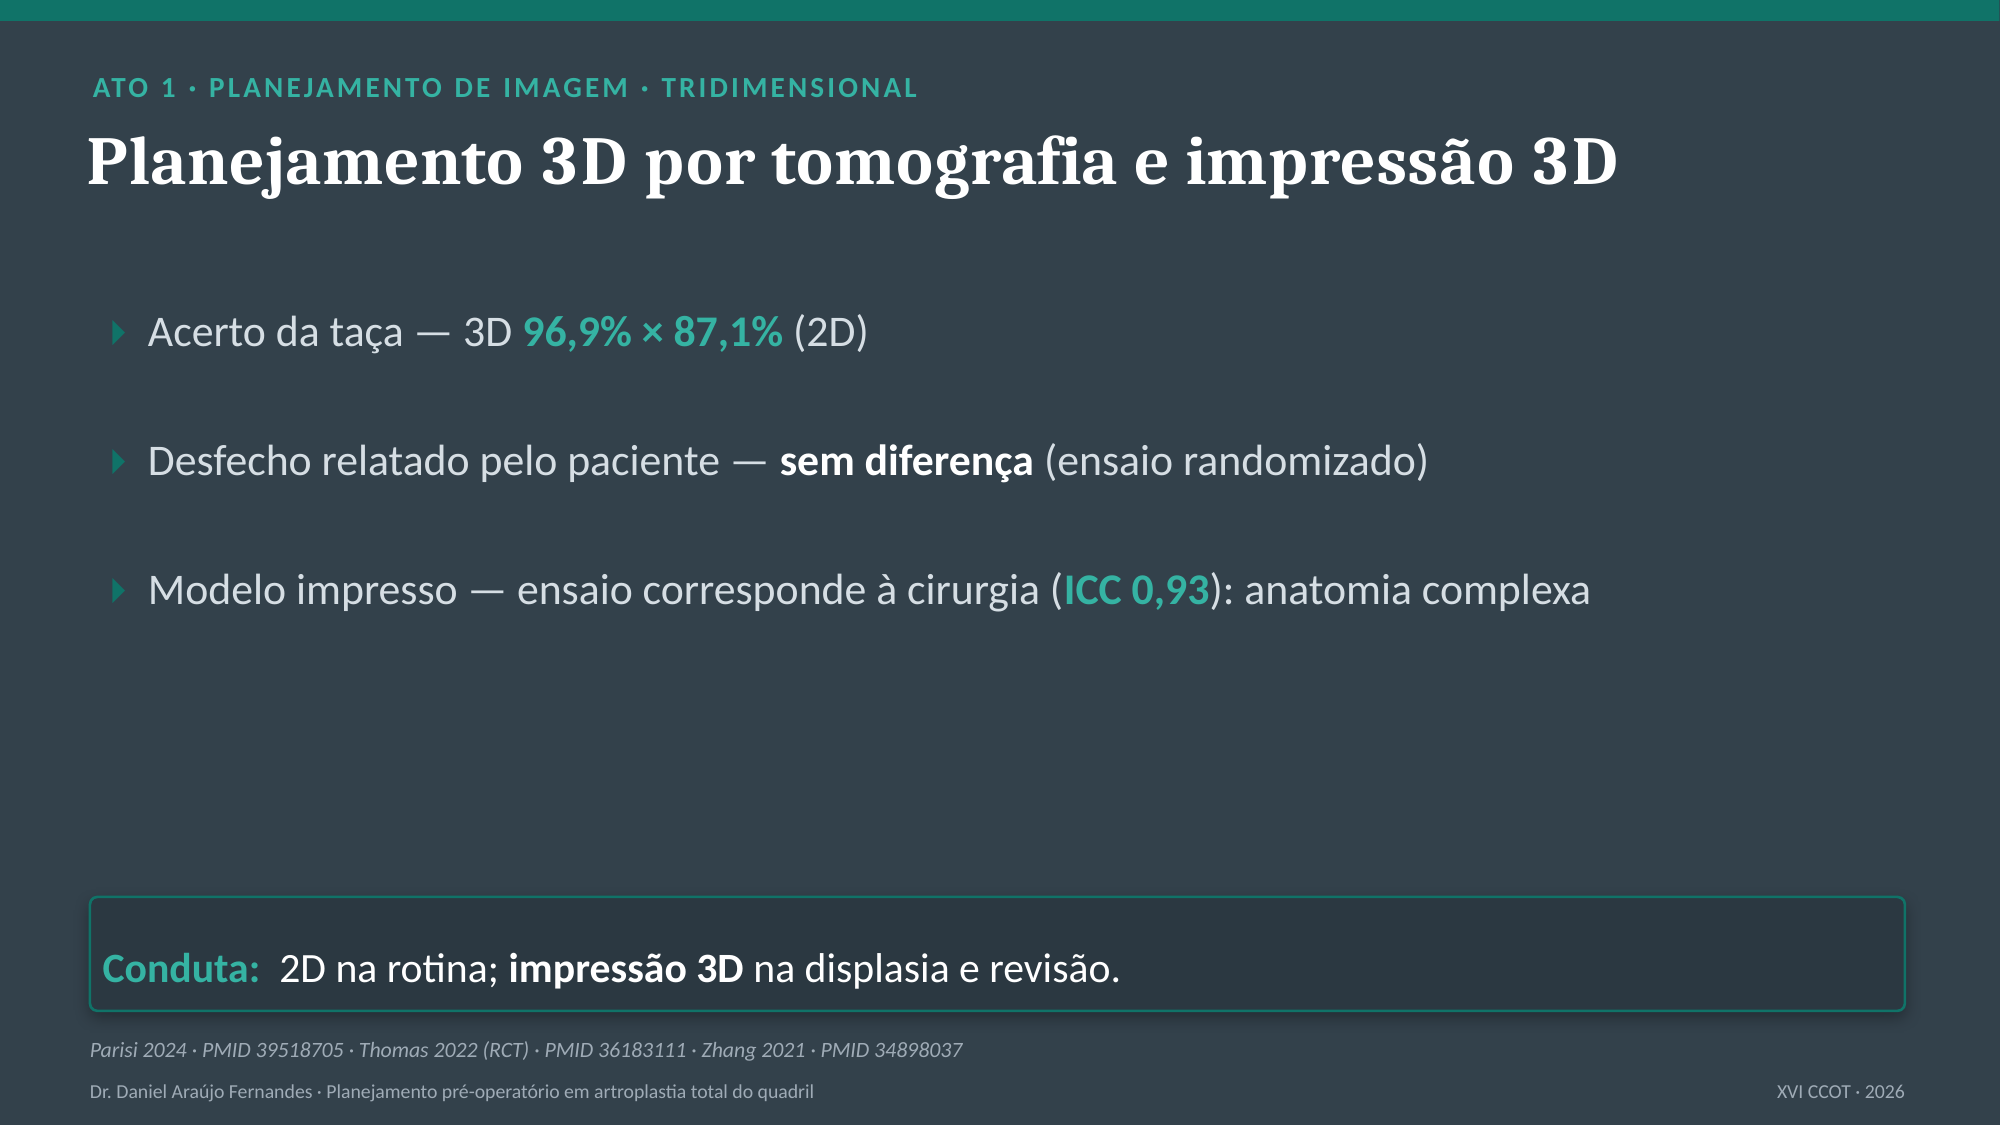
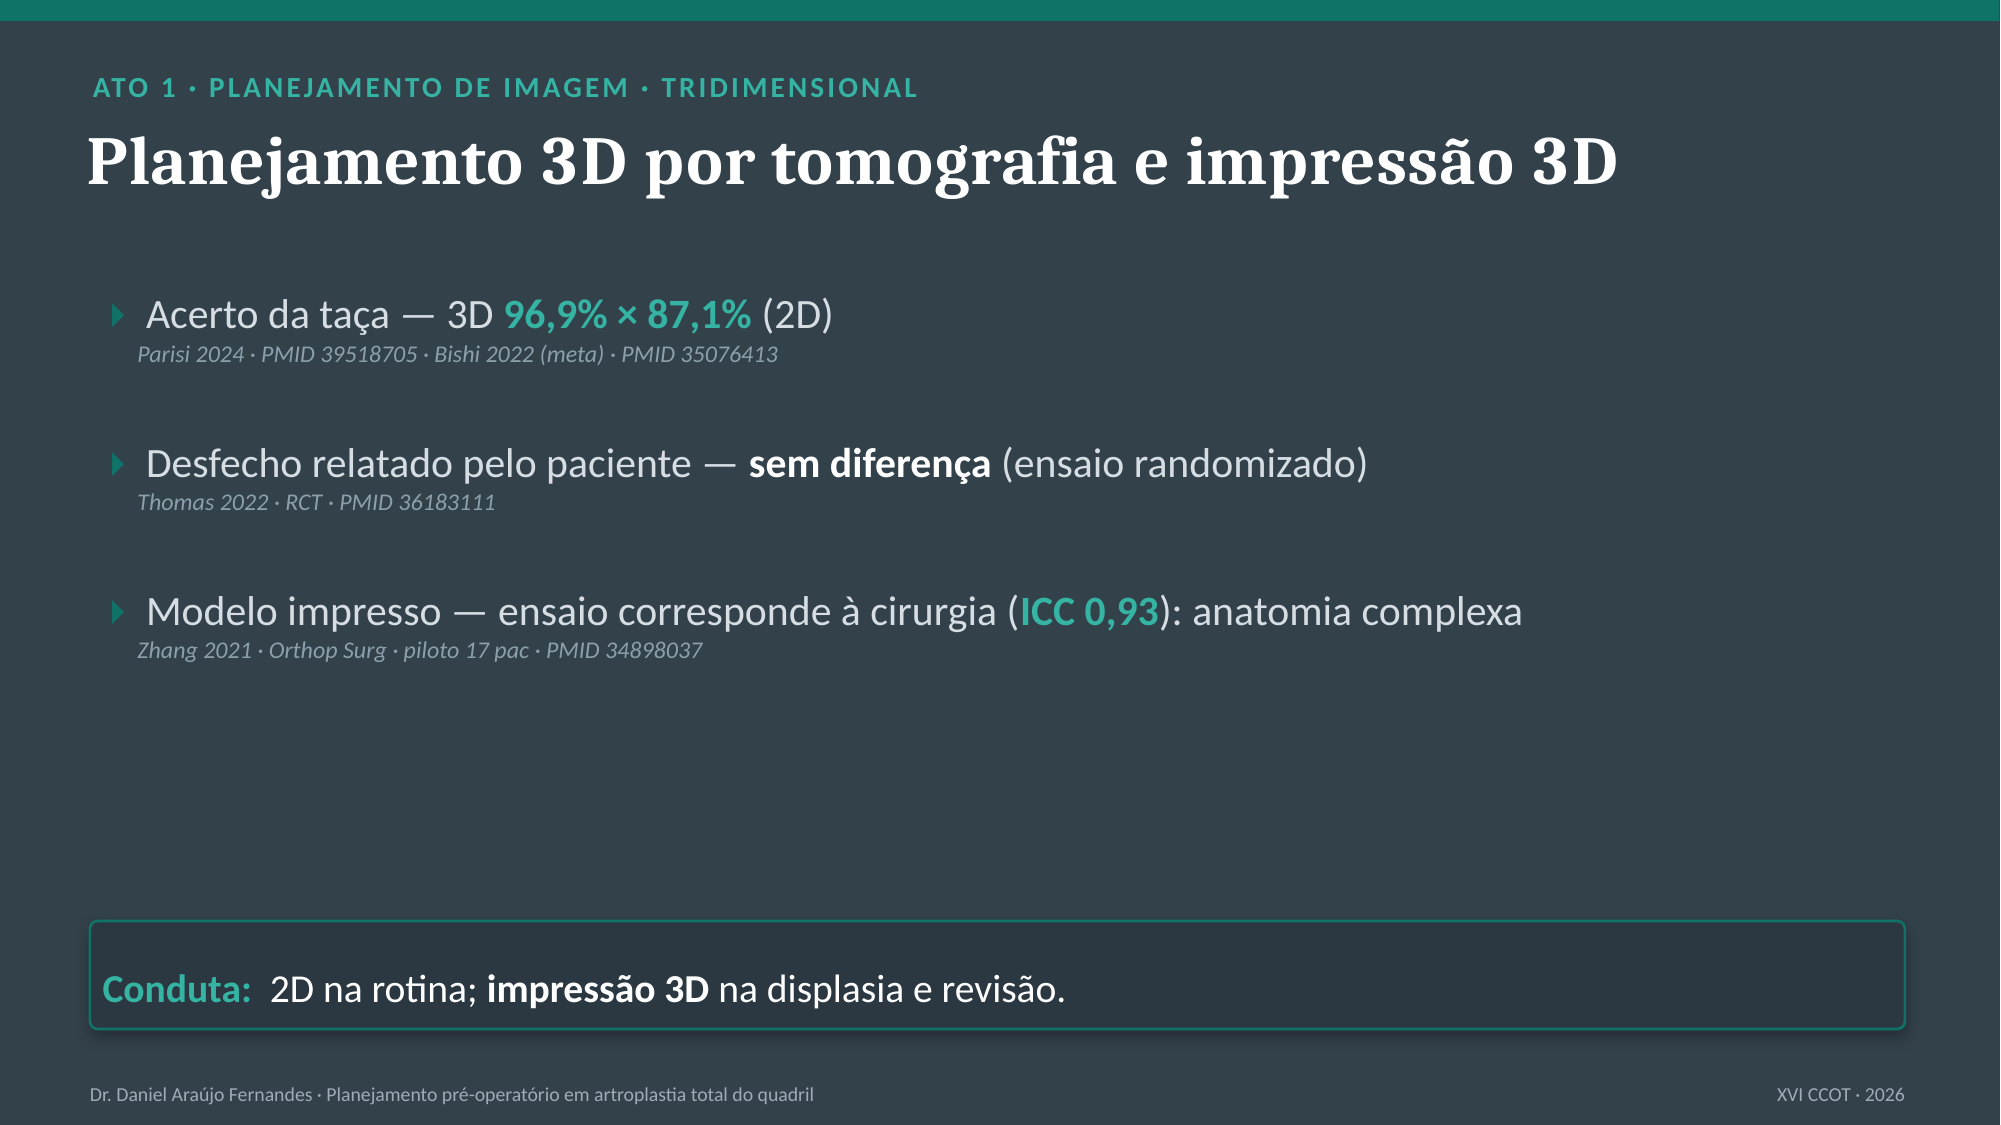
Ordem do Dr. 18/08 (3ª rodada): cabeça 36 desmembrada — S11 só instabilidade ([4.3]) dentro do bloco da luxação, S15 só tribologia ([4.4], retoma a 36 em cerâmica); Síntese sobe (Ato 3, S16-S17); TODO o clínico-farmacológico vira APÊNDICE A1-A5 fora da palestra (tabagismo, infecção, protocolo, anemi

diff --git a/build_atual5.js b/build_atual5.js
@@ -1,12 +1,14 @@
 // 5 PRIMEIROS SLIDES — VERSÃO ATUAL (CAPITULO.md @ffb0893, formato "resumo em tópicos").
+// ⛔ CANÔNICO (Dr. 18/08): CADA afirmação leva a SUA referência JUNTO dela (autor·ano·PMID
+// logo abaixo do tópico) — NUNCA referências agrupadas no rodapé.
 // S1 capa+conceito · S2 template · S3 calibração (dupla escala, c/ ilustração real Ries 2022 CC BY)
-// · S4 3D+impressão · S5 IA. Identidade escura CCOT · letras grandes · animação de clique.
+// · S4 3D+impressão · S5 IA. Identidade escura CCOT (paleta OFICIAL 33414b/107368/fff) · animação.
 const path = require("path");
 const pptxgen = require("pptxgenjs");
 
 const BG = "33414B", CARD = "3E4E5A", COND = "2B3841", PANEL = "F4F6F7";
 const TEAL = "107368", TEALB = "35B3A3";
-const INK = "FFFFFF", BODY = "D6DEE4", MUT = "9FABB6";
+const INK = "FFFFFF", BODY = "D6DEE4", MUT = "9FABB6", REF = "8CA0AC";
 const HF = "Cambria", BF = "Calibri";
 const FIGDIR = path.join(__dirname, "_figuras");
 
@@ -16,29 +18,31 @@ const shadow = () => ({ type: "outer", color: "000000", opacity: 0.30, blur: 7, 
 const topbar = (sl) => sl.addShape(p.ShapeType.rect, { x: 0, y: 0, w: 13.33, h: 0.14, fill: { color: TEAL }, line: { type: "none" } });
 const rodape = (sl) => {
   sl.addText("Dr. Daniel Araújo Fernandes · Planejamento pré-operatório em artroplastia total do quadril",
-    { x: 0.6, y: 7.13, w: 9.6, h: 0.28, color: MUT, fontSize: 9.5, fontFace: BF, align: "left", margin: 0 });
-  sl.addText("XVI CCOT · 2026", { x: 10.2, y: 7.13, w: 2.5, h: 0.28, color: MUT, fontSize: 9.5, fontFace: BF, align: "right", margin: 0 });
+    { x: 0.6, y: 7.16, w: 9.6, h: 0.26, color: MUT, fontSize: 9.5, fontFace: BF, align: "left", margin: 0 });
+  sl.addText("XVI CCOT · 2026", { x: 10.2, y: 7.16, w: 2.5, h: 0.26, color: MUT, fontSize: 9.5, fontFace: BF, align: "right", margin: 0 });
 };
 let animSeq = 0;
 const markAnim = (o) => { animSeq++; return Object.assign({}, o, { objectName: "anim_" + animSeq }); };
 
 // runs: **negrito branco**  ~destaque teal~
-function parseRuns(str, base) {
+function parseRuns(str, base, size) {
   const runs = []; const re = /(\*\*[^*]+\*\*|~[^~]+~)/g; let last = 0, m;
   while ((m = re.exec(str))) {
-    if (m.index > last) runs.push({ text: str.slice(last, m.index), options: { color: base, fontSize: 21, fontFace: BF } });
+    if (m.index > last) runs.push({ text: str.slice(last, m.index), options: { color: base, fontSize: size, fontFace: BF } });
     const t = m[0];
-    if (t.startsWith("**")) runs.push({ text: t.slice(2, -2), options: { bold: true, color: INK, fontSize: 21, fontFace: BF } });
-    else runs.push({ text: t.slice(1, -1), options: { bold: true, color: TEALB, fontSize: 21, fontFace: BF } });
+    if (t.startsWith("**")) runs.push({ text: t.slice(2, -2), options: { bold: true, color: INK, fontSize: size, fontFace: BF } });
+    else runs.push({ text: t.slice(1, -1), options: { bold: true, color: TEALB, fontSize: size, fontFace: BF } });
     last = re.lastIndex;
   }
-  if (last < str.length) runs.push({ text: str.slice(last), options: { color: base, fontSize: 21, fontFace: BF } });
+  if (last < str.length) runs.push({ text: str.slice(last), options: { color: base, fontSize: size, fontFace: BF } });
   return runs;
 }
 
-function bullet(sl, str, x, y, w) {
-  sl.addText([{ text: "▸  ", options: { color: TEAL, bold: true, fontSize: 21, fontFace: BF } }, ...parseRuns(str, BODY)],
-    markAnim({ x, y, w, h: 0.82, align: "left", valign: "top", margin: 0, lineSpacingMultiple: 1.05 }));
+// b = { t: "afirmação (com **/~ )", f: "Autor ANO · Revista · PMID XXXX" }
+function bullet(sl, b, x, y, w) {
+  const runs = [{ text: "▸  ", options: { color: TEAL, bold: true, fontSize: 20, fontFace: BF } }, ...parseRuns(b.t, BODY, 20)];
+  if (b.f) runs.push({ text: "\n      " + b.f, options: { color: REF, italic: true, fontSize: 11.5, fontFace: BF } });
+  sl.addText(runs, markAnim({ x, y, w, h: 0.94, align: "left", valign: "top", margin: 0, lineSpacingMultiple: 1.04 }));
 }
 
 function figCard(sl, img, cx, cy, cw, ch, credito) {
@@ -49,19 +53,14 @@ function figCard(sl, img, cx, cy, cw, ch, credito) {
 }
 
 function condutaBand(sl, txt, y, w) {
-  sl.addText([{ text: "Conduta:  ", options: { bold: true, color: TEALB, fontSize: 20, fontFace: BF } }, ...parseRuns(txt, INK).map(r => (r.options.fontSize = 20, r))],
+  sl.addText([{ text: "Conduta:  ", options: { bold: true, color: TEALB, fontSize: 19, fontFace: BF } }, ...parseRuns(txt, INK, 19)],
     markAnim({ shape: p.ShapeType.roundRect, rectRadius: 0.05, fill: { color: COND }, line: { color: TEAL, width: 1.25 }, shadow: shadow(),
-      x: 0.6, y, w, h: 0.76, align: "left", valign: "middle", margin: [5, 16, 5, 16], lineSpacingMultiple: 1.02 }));
-}
-
-function sources(sl, txt) {
-  sl.addText(txt, { x: 0.6, y: 6.86, w: 12.1, h: 0.26, color: MUT, italic: true, fontSize: 10.5, fontFace: BF, align: "left", margin: 0 });
+      x: 0.6, y, w, h: 0.72, align: "left", valign: "middle", margin: [5, 16, 5, 16], lineSpacingMultiple: 1.02 }));
 }
 
 // ---------- S1 · CAPA + CONCEITO ----------
 (function () {
   const sl = p.addSlide(); bgDark(sl); topbar(sl);
-  // logo oficial do CCOT em selo branco (topo-direita)
   sl.addShape(p.ShapeType.roundRect, { rectRadius: 0.08, fill: { color: "FFFFFF" }, line: { type: "none" }, shadow: shadow(), x: 9.95, y: 0.52, w: 2.85, h: 1.42 });
   sl.addImage({ path: path.join(FIGDIR, "logo-ccot.png"), x: 10.12, y: 0.62, w: 2.51, h: 1.22, sizing: { type: "contain", w: 2.51, h: 1.22 } });
 
@@ -93,12 +92,11 @@ function topico(cfg) {
   sl.addText(cfg.eyebrow, { x: 0.62, y: 0.40, w: 12.1, h: 0.34, color: TEALB, bold: true, fontSize: 14, charSpacing: 1.5, fontFace: BF, margin: 0 });
   sl.addText(cfg.titulo, { x: 0.58, y: 0.76, w: 12.1, h: 1.02, color: INK, bold: true, fontSize: cfg.tituloSize || 34, fontFace: HF, valign: "top", margin: 0, lineSpacingMultiple: 1.02 });
 
-  const bx = 0.7, bw = cfg.fig ? 7.3 : 12.0;
-  let y = 2.0;
-  for (const b of cfg.bullets) { bullet(sl, b, bx, y, bw); y += 0.86; }
-  if (cfg.fig) figCard(sl, cfg.fig.img, 8.35, 1.98, 4.35, cfg.fig.h || 4.35, cfg.fig.credito);
-  condutaBand(sl, cfg.conduta, 5.98, cfg.fig ? 7.5 : 12.1);
-  if (cfg.sources) sources(sl, cfg.sources);
+  const bx = 0.7, bw = cfg.fig ? 7.35 : 12.0;
+  let y = 1.9;
+  for (const b of cfg.bullets) { bullet(sl, b, bx, y, bw); y += 0.99; }
+  if (cfg.fig) figCard(sl, cfg.fig.img, 8.4, 1.9, 4.3, cfg.fig.h || 4.2, cfg.fig.credito);
+  condutaBand(sl, cfg.conduta, 6.14, cfg.fig ? 7.55 : 12.1);
 }
 
 // ---------- S2 · TEMPLATE ----------
@@ -107,29 +105,27 @@ topico({
   titulo: "Template manual ou digital? A ferramenta não é o determinante",
   tituloSize: 32,
   bullets: [
-    "Acerto da haste — template manual ~75% × 60%~ software (p < 0,001)",
-    "Comparação inversa — digital ~93,8% × 84,1%~: o método importa menos que a execução",
-    "Padrão alcançável — **± 1 tamanho em ~90%**; tamanho exato em ~32–40%",
-    "O desenho da haste desloca a previsão — subdimensionamento ~3,7×~",
+    { t: "Acerto da haste — template manual ~75% × 60%~ software (p < 0,001)", f: "Petretta 2015 · CORR · 5 observadores, 52 ATQs · PMID 25910779" },
+    { t: "Comparação inversa — digital ~93,8% × 84,1%~: o método importa menos que a execução", f: "Pongkunakorn 2021 · J Arthroplasty · PMID 33583670" },
+    { t: "Padrão alcançável — **± 1 tamanho em ~90%**; tamanho exato em ~32–40%", f: "Surroca 2024 · Hip Pelvis · PMID 38825822" },
+    { t: "O desenho da haste desloca a previsão — subdimensionamento ~3,7×~", f: "Diaz-Ledezma 2025 · Arthroplast Today · PMID 40130235" },
   ],
   conduta: "template em **TODA** artroplastia — manual ou digital.",
-  sources: "Petretta 2015 · PMID 25910779 · Pongkunakorn 2021 · PMID 33583670 · Surroca 2024 · PMID 38825822 · Diaz-Ledezma 2025 · PMID 40130235",
 });
 
 // ---------- S3 · CALIBRAÇÃO (com ilustração real) ----------
 topico({
   eyebrow: "ATO 1 · PLANEJAMENTO DE IMAGEM · CALIBRAÇÃO",
   titulo: "Calibração: o marcador único é insuficiente para o fêmur",
-  tituloSize: 31,
+  tituloSize: 30,
   bullets: [
-    "Erro de magnificação — marcador único ~12,5%~ (até 23,3%) × dupla escala ~2,1%~",
-    "Acerto exato da haste — dupla escala ~54% × 32%~ (p = 0,04); taça: sem diferença",
-    "Erro de calibração **> 1,5%** já altera o tamanho planejado",
-    "Fator fixo — magnificação real varia ~116–140%~ (muda com IMC e sexo)",
+    { t: "Erro de magnificação — marcador único ~12,5%~ (até 23,3%) × dupla escala ~2,1%~", f: "Ries 2022 · Arch Orthop Trauma Surg · 100 pac · PMID 35099608" },
+    { t: "Acerto exato da haste — dupla escala ~54% × 32%~ (p = 0,04); taça: sem diferença", f: "Maatough 2025 · Cureus · PMID 40470419" },
+    { t: "Erro de calibração **> 1,5%** já altera o tamanho planejado", f: "Boese 2023 · Int Orthop · modelo físico · PMID 36881153" },
+    { t: "Fator fixo — magnificação real varia ~116–140%~ (muda com IMC e sexo)", f: "Holliday 2021 · PMID 33590673 · Ashkenazi 2023 · PMID 37195151" },
   ],
-  conduta: "calibração de **dupla escala** em toda radiografia de planejamento; não usar fator fixo.",
-  fig: { img: "1.1_calibracao_esquema_marcador.jpg", h: 4.0, credito: "Marcador anterior (dupla escala) × entre as pernas · Ries 2022 · CC BY 4.0" },
-  sources: "Ries 2022 · PMID 35099608 · Maatough 2025 · PMID 40470419 · Boese 2023 · PMID 36881153 · Ashkenazi 2023 · PMID 37195151",
+  conduta: "calibração de **dupla escala** em toda radiografia; não usar fator fixo.",
+  fig: { img: "1.1_calibracao_esquema_marcador.jpg", h: 3.9, credito: "Marcador anterior (dupla escala) × entre as pernas · Ries 2022 · CC BY 4.0" },
 });
 
 // ---------- S4 · 3D + IMPRESSÃO ----------
@@ -138,12 +134,11 @@ topico({
   titulo: "Planejamento 3D por tomografia e impressão 3D",
   tituloSize: 33,
   bullets: [
-    "Acerto da taça — 3D ~96,9% × 87,1%~ (2D)",
-    "Desfecho relatado pelo paciente — **sem diferença** (ensaio randomizado)",
-    "Modelo impresso — ensaio corresponde à cirurgia (~ICC 0,93~): anatomia complexa",
+    { t: "Acerto da taça — 3D ~96,9% × 87,1%~ (2D)", f: "Parisi 2024 · PMID 39518705 · Bishi 2022 (meta) · PMID 35076413" },
+    { t: "Desfecho relatado pelo paciente — **sem diferença** (ensaio randomizado)", f: "Thomas 2022 · RCT · PMID 36183111" },
+    { t: "Modelo impresso — ensaio corresponde à cirurgia (~ICC 0,93~): anatomia complexa", f: "Zhang 2021 · Orthop Surg · piloto 17 pac · PMID 34898037" },
   ],
   conduta: "2D na rotina; **impressão 3D** na displasia e revisão.",
-  sources: "Parisi 2024 · PMID 39518705 · Thomas 2022 (RCT) · PMID 36183111 · Zhang 2021 · PMID 34898037",
 });
 
 // ---------- S5 · IA ----------
@@ -152,12 +147,11 @@ topico({
   titulo: "Planejamento assistido por inteligência artificial",
   tituloSize: 32,
   bullets: [
-    "Acerto do tamanho — taça ~OR 3,85~ (melhor que o 2D)",
-    "Validação — 1.371 pacientes, **um único país**, nível III",
-    "Função — ~+0,73~ ponto no HHS: abaixo do MCID (imperceptível ao paciente)",
+    { t: "Acerto do tamanho — taça ~OR 3,85~ (melhor que o 2D)", f: "Altahtamouni 2026 · meta · PMID 41727957" },
+    { t: "Validação — 1.371 pacientes, **um único país**, nível III", f: "Altahtamouni 2026 · meta · PMID 41727957" },
+    { t: "Função — ~+0,73~ ponto no HHS: abaixo do MCID (imperceptível ao paciente)", f: "Taghavi 2026 · Arthroplasty · meta · PMID 42547897" },
   ],
   conduta: "**não adotar** sem validação na população local; acompanhar a literatura.",
-  sources: "Altahtamouni 2026 · PMID 41727957 · Taghavi 2026 · PMID 42547897",
 });
 
 const OUT = path.join(__dirname, "deck_atual5.pptx");
